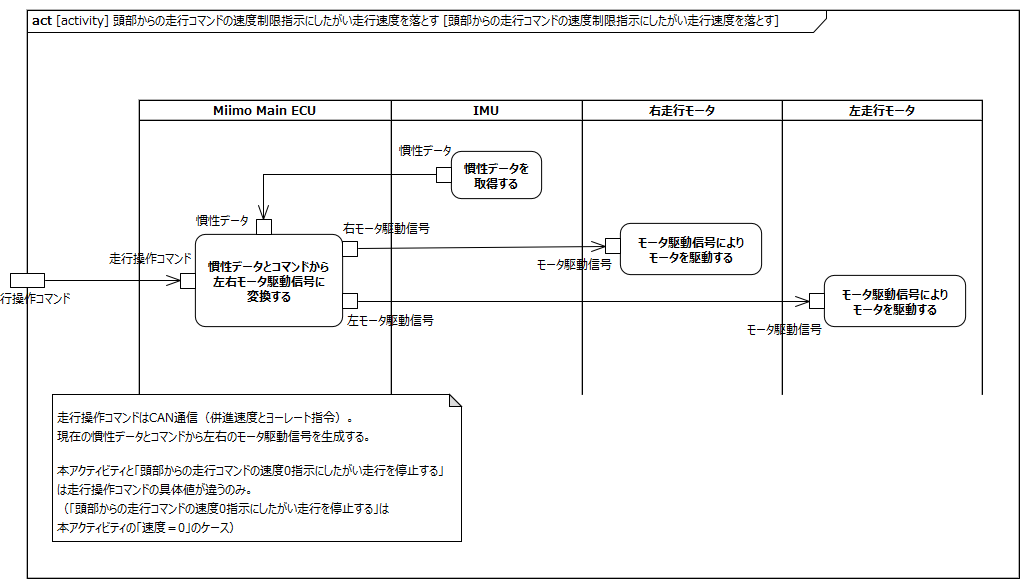
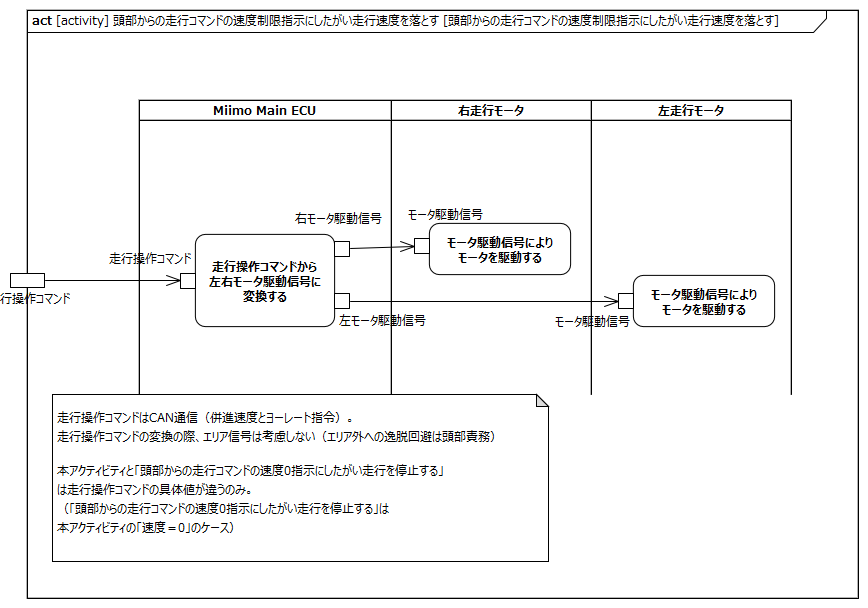
・関連コンポーネントからIMUを削除 （ホンダ様のシステム構成チェックで「L0_遠隔で操作する」にて関連コンポーネントにチェックが入っていたのを誤って適用していた。「L0_走行エリアを検出する」では無印。）

Changed region(s): [[0.0, 0.0, 0.9954, 1.0], [0.5599, 0.6429, 0.6532, 0.6735]]

diff --git a/requirements/area_detection.md b/requirements/area_detection.md
@@ -101,10 +101,9 @@ avatarin側の責務のため、対象外とする。
 
 |要求|備考|
 |:---|:---|
-|Miimo Main ECUは慣性データとコマンドから左右モータ駆動信号に変換する|エリア信号は考慮しない（エリア外への逸脱回避は頭部責務）|
+|Miimo Main ECUは走行操作コマンドから左右モータ駆動信号に変換する|・走行操作コマンドはCAN通信（併進速度とヨーレート指令）<br/>・走行操作コマンドの変換の際、エリア信号は考慮しない（エリア外への逸脱回避は頭部責務）|
 |右走行モータはモータ駆動信号によりモータを駆動する|※1|
 |左走行モータはモータ駆動信号によりモータを駆動する|※1|
-|IMUは慣性データを取得する||
 
 ※1:「遠隔で操作する」＞「ベース操作コマンドに従い走行する」のL2要求参照
 
